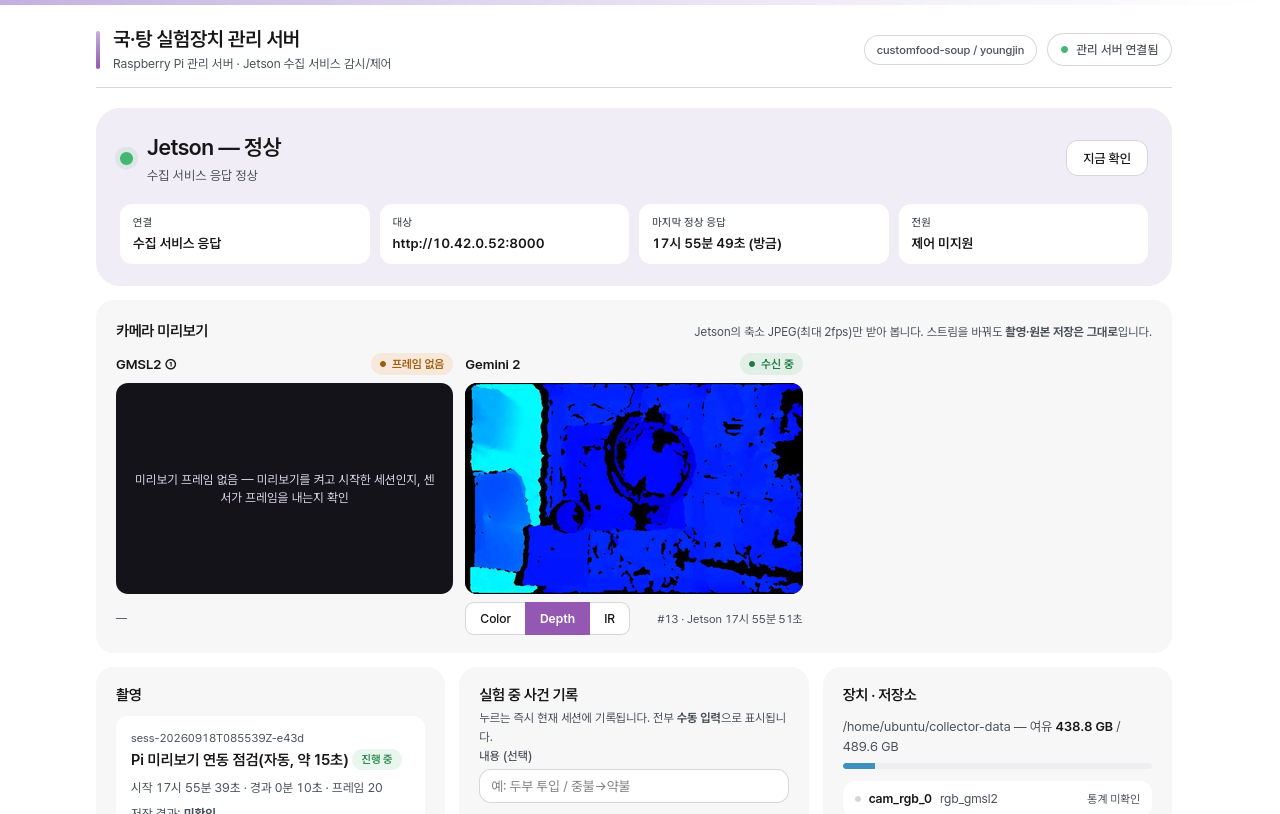
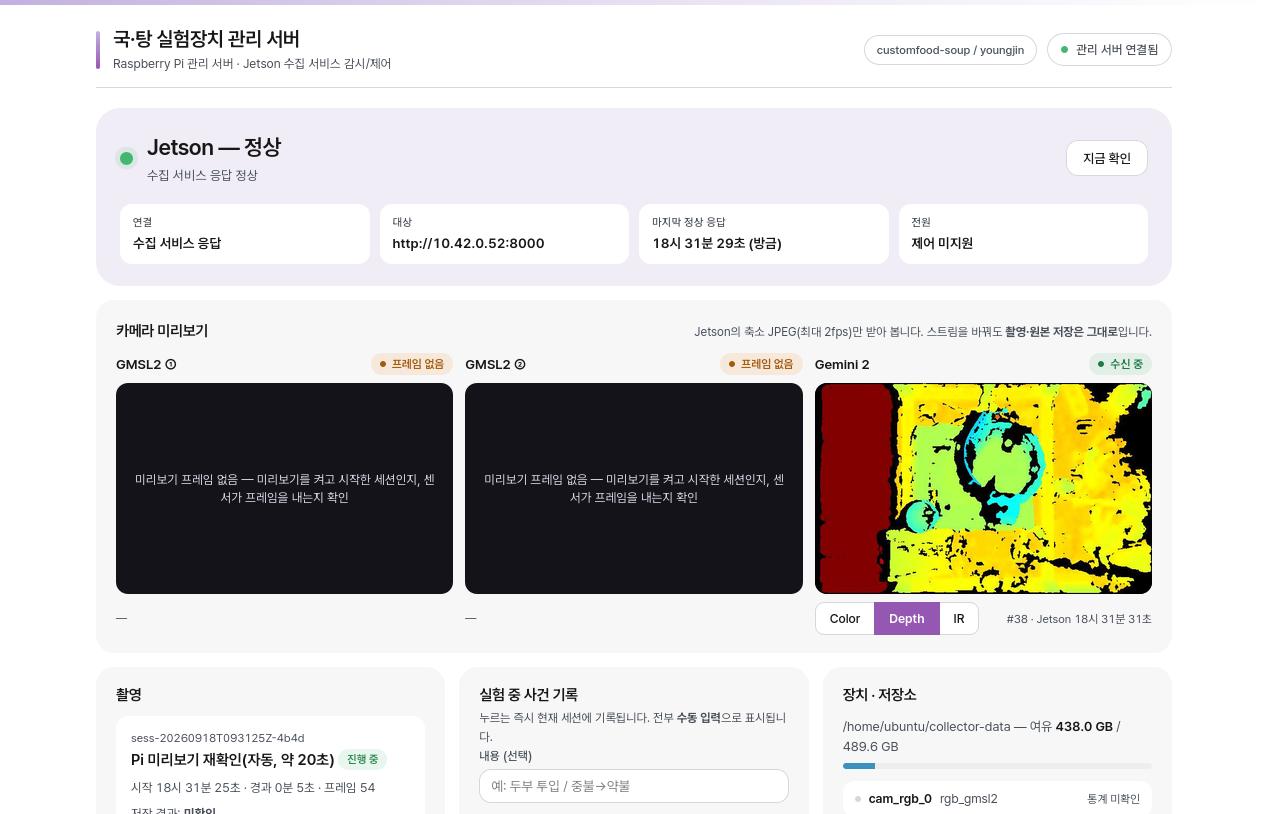
개발 노트: 리베이스 후 실기기 재확인(시작 버튼·depth_max_mm 유지·3면) 기록, 화면 증거 교체

diff --git a/notes/dev-log.md b/notes/dev-log.md
@@ -25,6 +25,11 @@
   화면 증거: `docs/img/pi-camera-preview-20260918.png`. **점검 세션 원본이 Jetson에 남아 있다** — 필요 없으면 삭제.
 - (리베이스 후속) Jetson에 `preview.depth_max_mm`(깊이 의사색 범위, 59eebf0)이 추가돼 Pi 실험 설정 `preview`에도 같은 선택 필드(100~65535)를
   넣었다 — `PUT /api/config`로 저장해 두면 화면의 시작 버튼이 그 값을 유지한 채 `enabled`·`max_fps`만 얹는다.
+- **리베이스 후 실기기 재확인**: `PUT /api/config`에 `preview.depth_max_mm=1000`을 저장하고 **화면의 촬영 시작 버튼**으로 시작
+  (`sess-20260918T093125Z-4b4d`) — 박제된 설정 `preview={enabled:true, max_fps:2, depth_max_mm:1000}`(저장값 유지 확인),
+  기본 3면에서 Gemini 2 Color→Depth→IR 모두 "수신 중"(이번엔 시작 5초 안에 세 스트림 다 들어옴), GMSL2 ①·②는 "프레임 없음",
+  깊이 색이 0~1 m 범위로 바뀌어 냄비·작업대가 구분됨. 중지 후 요청 0건. 원본 141프레임·234 MB·드롭 0·`ok:true`.
+  화면 증거 사진을 이 실행의 것으로 교체. 이 점검 세션 원본도 Jetson에 남아 있다.
 - 테스트 9건 추가, Pi 서버 전체 39 passed. 이 Pi의 헤드리스 Chromium은 로컬 서버에 접속하지 못하고 멈춰(원인 미확인) Firefox를 썼다.
 - 남은 것: GMSL2 실물 미리보기 확인(카메라 보드 연결 후), 온도·열화상 패널(미리보기 API 대상 아님 — 별도 작업),
   Jetson 주소가 문서·env 기본값(192.168.0.51)과 실제 직결 주소(10.42.0.52)가 다름 — systemd env 설치 시 맞출 것.

diff --git a/pi-server/README.md b/pi-server/README.md
@@ -256,7 +256,7 @@ curl -X PUT localhost:8100/api/identity -H 'content-type: application/json' \
 
 ![카메라 미리보기](../docs/img/pi-camera-preview-20260918.png)
 
-*2026-09-18 실제 Jetson + Gemini 2(Depth 선택). GMSL2는 카메라 미연결이라 "프레임 없음".*
+*2026-09-18 실제 Jetson + Gemini 2(Depth 선택, `depth_max_mm=1000`). GMSL2 ①·②는 카메라 미연결이라 "프레임 없음".*
 
 **촬영과 원본 저장은 Jetson 수집기가 한다.** 이 모듈은 Jetson의 저속 JPEG 미리보기를 받아 보여 주고,
 스트림 전환·갱신·연결 상태만 관리한다. 스트림(Color/Depth/IR)을 바꿔도 Jetson에는 조회(GET)만 나간다.
